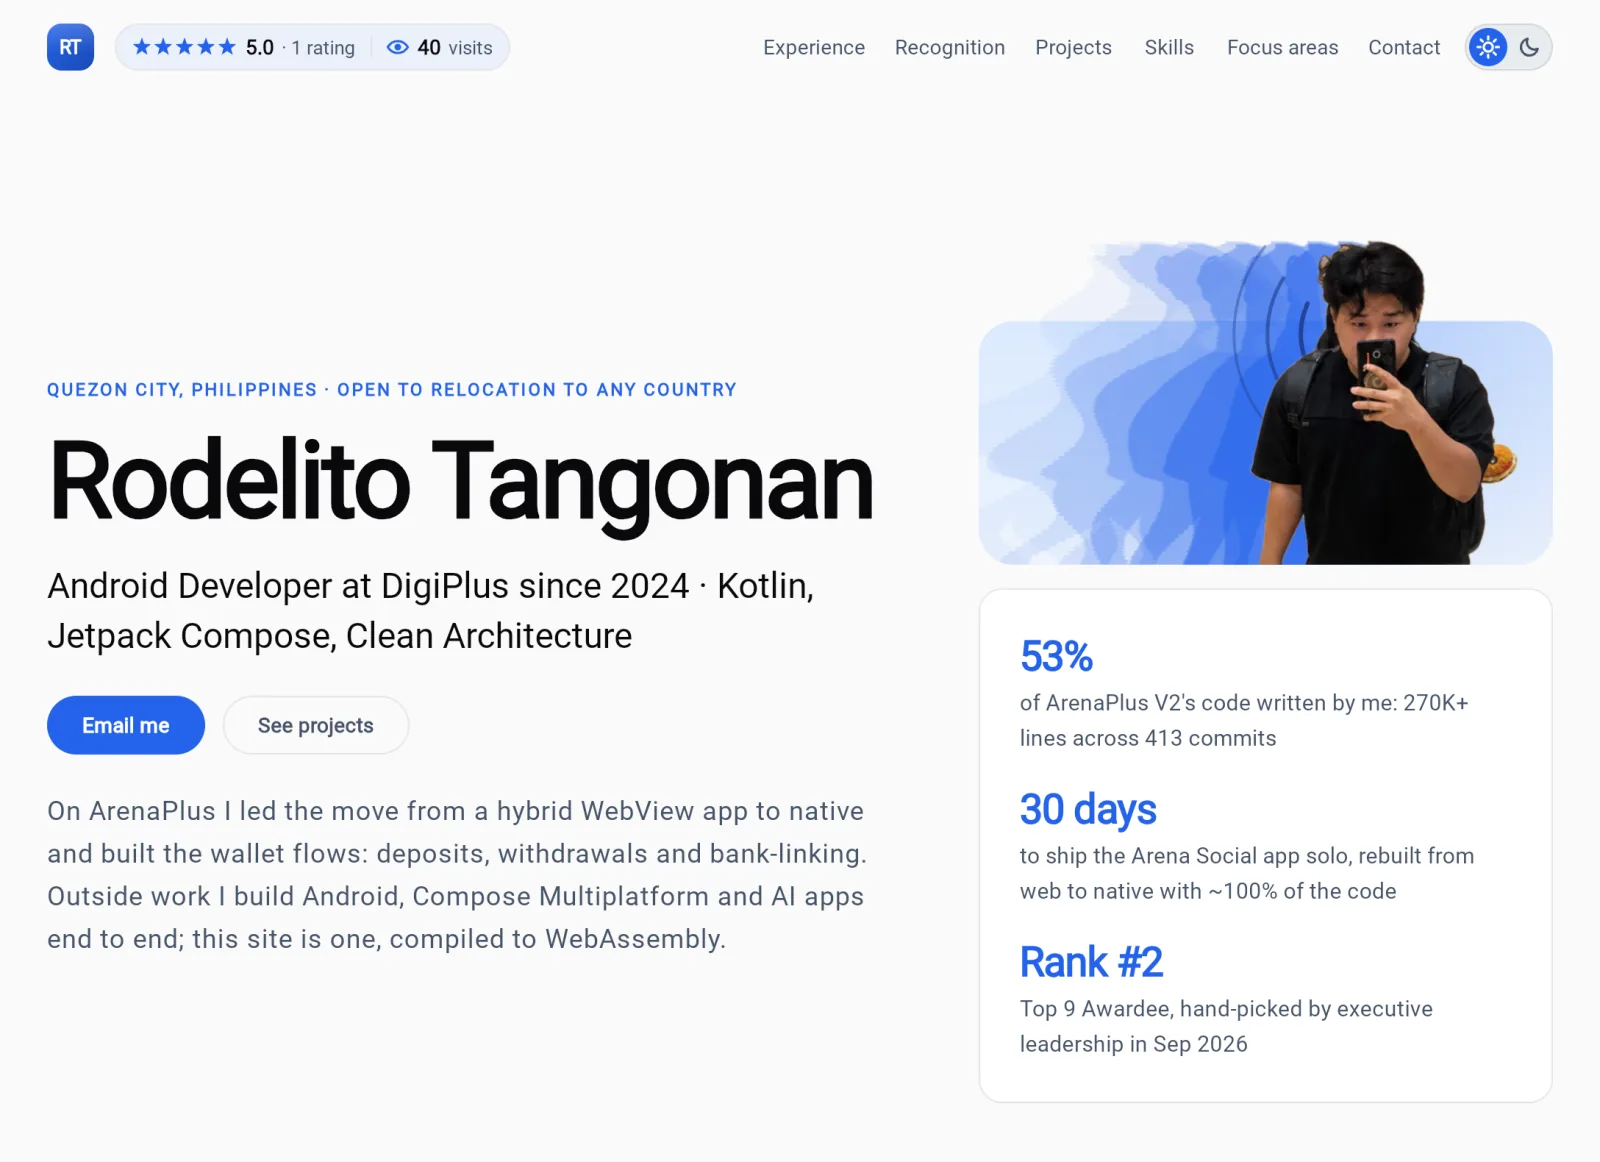
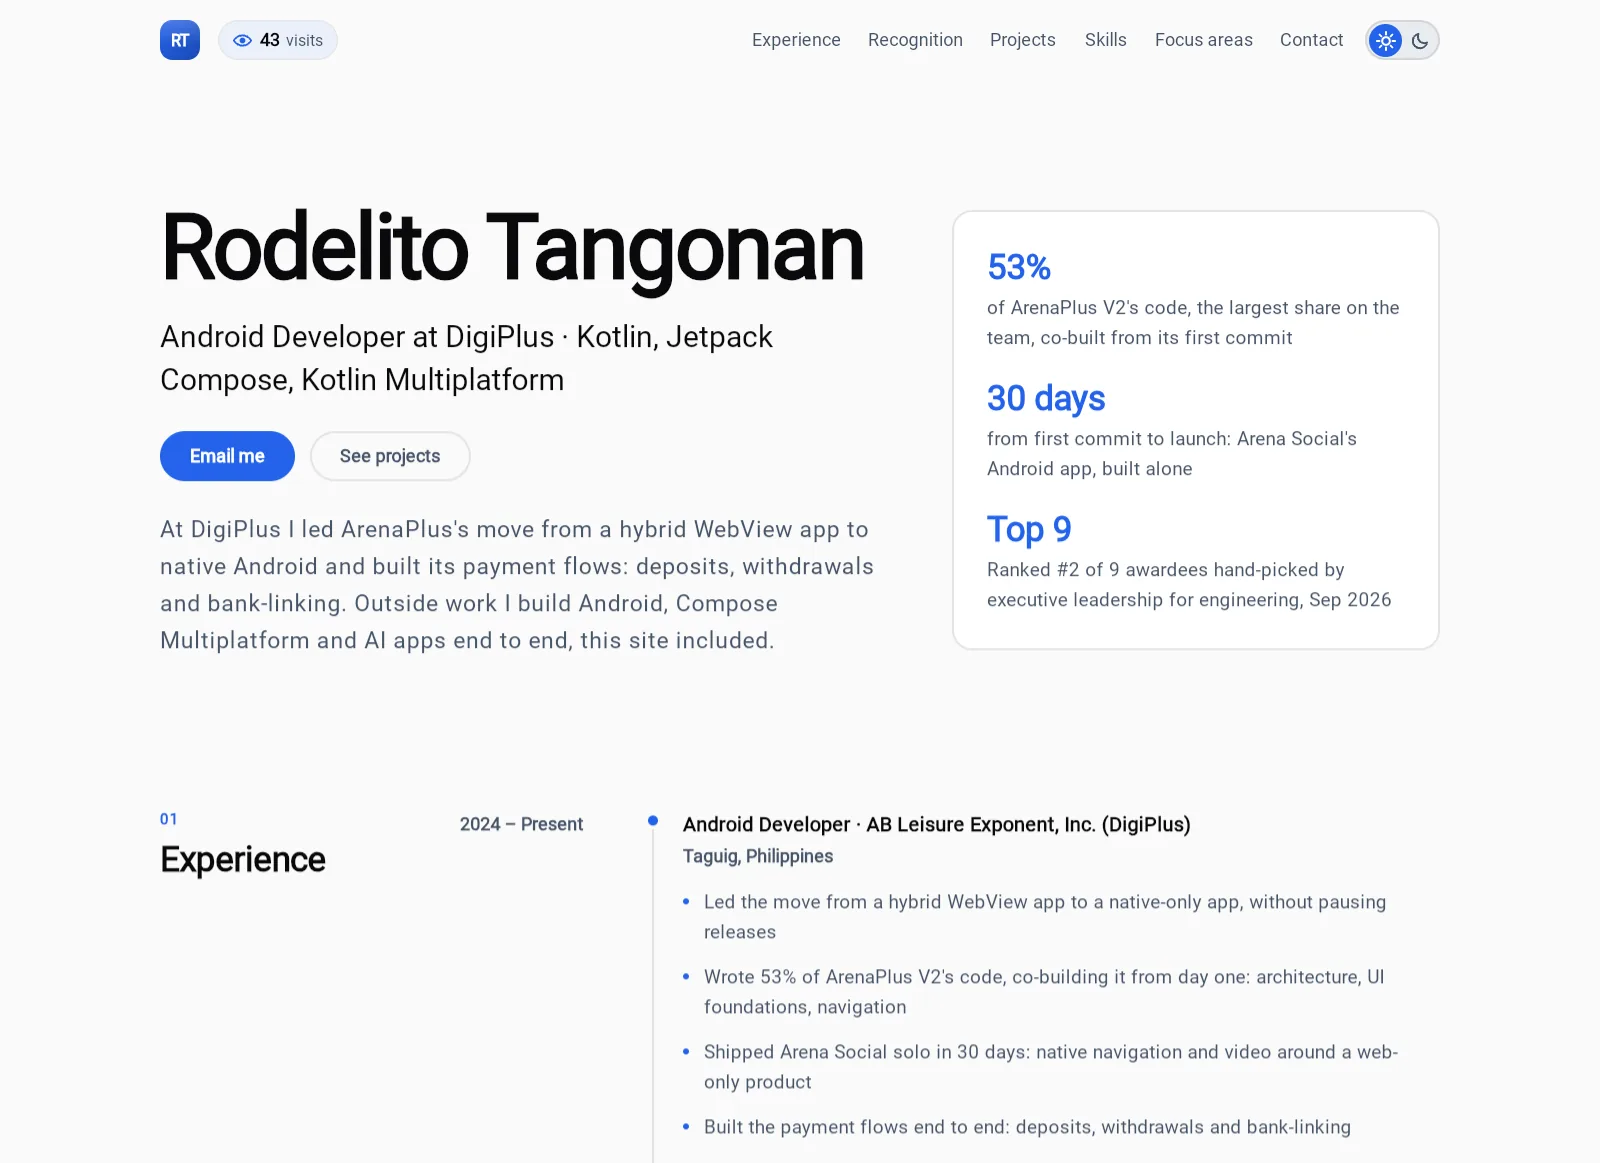
docs: the README shows the first screen as it is now, with no selfie

diff --git a/README.md b/README.md
@@ -5,7 +5,7 @@ still leaves knowing who I am, what I have shipped and how to reach me.
 
 **Live:** https://yowkylito.github.io/AboutYowkey/
 
-![The first screen: my name and role, three proof points, the contact buttons and the portrait](docs/images/hero.webp)
+![The first screen: my name and role, three proof points and the contact buttons](docs/images/hero.webp)
 
 ## What it is
 
@@ -17,8 +17,8 @@ browser, as a desktop window and as an app on my phone.
 
 Each section is placed by what a hiring manager wants to know next. From the top:
 
-1. **The first screen.** My name and role on the portrait's stage, my stack under it, and three numbers that prove
-   it, each with the sentence behind it. Then **Email me** and **See projects**. Nothing that
+1. **The first screen.** My name, my role and stack, and three numbers that prove them, each with the sentence
+   behind it. Then **Email me** and **See projects**. Nothing that
    matters sits below the fold, and the summary comes after the buttons so it can never push them down.
 2. **Experience.** My roles, newest first, with what I did and what it changed.
 3. **Recognition.** Awards and honours, each with when and what it was for.
@@ -33,9 +33,8 @@ Each section is placed by what a hiring manager wants to know next. From the top
 
 - **Proof in the top bar.** While the first screen is up, the bar shows the visitors' average rating and the visit
   count. Once my name scrolls away, the bar shows my name and role instead.
-- **A portrait with a voice.** My photo, cut out of its background, dashes in from the left onto a stage in the
-  site's blue, a trail of echoes melting into waves behind it, and "screams" as it lands; then my name and the rest
-  of the first screen read in after it. It screams again each time it comes into view or a pointer moves over it.
+- **A calm entrance.** The first screen reads in once, in order: name, role, numbers, buttons. When a portrait is
+  set, it slides onto a stage in the site's blue first, with my name and role beside it.
 - **Work told without secrets.** Code written for an employer belongs to the employer, so professional projects
   show my role, my share of the work and what it changed, never internal names or code.
 - **Projects you can see move.** Real screens and 60 fps clips of the apps, a full-screen viewer, and a page per
@@ -61,8 +60,8 @@ These ideas shaped every choice above:
 - **Show, don't tell.** Real screens of real apps, and a site that is itself built with the skills it lists.
 - **Respect confidentiality.** Describe your part and what it changed, never your employer's internals.
 - **Make contact effortless.** The email button is the first button, and sending a message needs no account.
-- **One touch of personality.** A single playful element, the portrait, makes the page memorable without getting in
-  the way of reading.
+- **One touch of motion.** A single entrance, played once and never on reduced motion, gives the page polish
+  without getting in the way of reading.
 - **Keep the words apart from the code.** Every word on the site lives in one file. Editing it and pushing
   redeploys the site, and the build refuses to ship a broken page.
 
